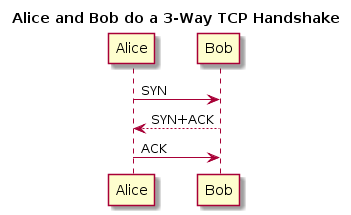
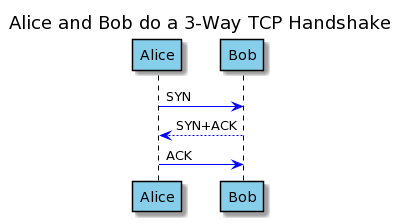
Improved sequence diagrams and added theme example

diff --git a/docs/Diagram-Types/diagram-types.md b/docs/Diagram-Types/diagram-types.md
@@ -29,9 +29,20 @@ Here is a simple example:
 ```plantuml
 @startuml
 title Alice and Bob do a 3-Way TCP Handshake
+
+skinparam ParticipantBackgroundColor SkyBlue
+skinparam ParticipantBorderColor Black
+
+' Set default colours for the horizontal arrows and vertical traces: 
+skinparam sequence {
+    ArrowColor blue
+    LifeLineBorderColor black
+}
+
 Alice -> Bob: SYN
 Bob --> Alice: SYN+ACK
 Alice -> Bob: ACK
+
 @enduml
 ```
 
@@ -42,6 +53,28 @@ There are multiple types of participant that can be used to trigger a sequence d
 ```plantuml
 @startuml
 title Sequence Participants
+
+' Set colors:
+skinparam ParticipantBackgroundColor skyblue
+skinparam ParticipantBorderColor black
+skinparam ArrowColor darkblue
+skinparam ActorBorderColor black
+skinparam ActorBackgroundColor skyblue
+skinparam BoundaryBorderColor black
+skinparam BoundaryBackgroundColor skyblue
+skinparam ControlBorderColor black
+skinparam ControlBackgroundColor skyblue
+skinparam EntityBorderColor black
+skinparam EntityBackgroundColor skyblue
+skinparam DatabaseBorderColor black
+skinparam DatabaseBackgroundColor skyblue
+skinparam CollectionsBorderColor black
+skinparam CollectionsBackgroundColor skyblue
+
+skinparam Sequence {
+    LifelineBorderColor gray
+}
+
 ' Specify the participants left to right:
 participant Participant
 actor Actor
@@ -64,6 +97,37 @@ Control -> Entity: List all options (actor)
 ```
 
 The order that that participants is declared determines their order left to right in the diagram, and the order of the events is the order top to bottom
+
+Here is the same diagram, but with simpler set-up code, thanks to use of a theme:
+
+![Sequence Participants](sequence-participants-theme.png)
+
+```plantuml
+@startuml
+!theme bluegray
+title Sequence Participants
+
+' Specify the participants left to right:
+participant Participant
+actor Actor
+boundary Boundary
+control Control
+entity Entity
+database Database
+collections Collections
+' Specify the events (in order):
+group authentication
+    Actor -> Boundary: Request Logon
+    Boundary -> Actor: Provide Credentials
+    Actor -> Boundary: username: actor, password: example123
+    Boundary -> Actor: Accepted
+end
+Actor -> Boundary: List all options
+Boundary -> Control: List all options (actor)
+Control -> Entity: List all options (actor)
+@enduml
+```
+
 
 Another example showing setting colours etc:
 
